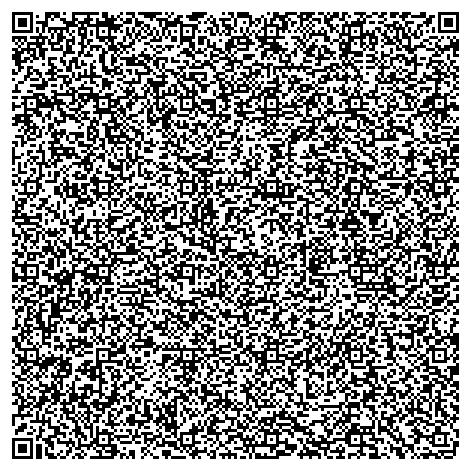
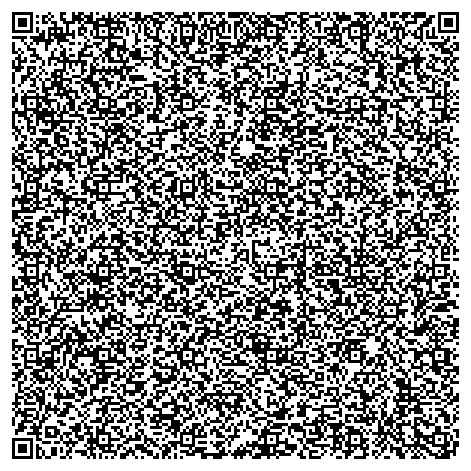
Try keeping as File for benefits from name

diff --git a/docs/_includes/payload.qr.min.js b/docs/_includes/payload.qr.min.js
@@ -1,1 +1,1 @@
-!(async function(){const t=t=>fetch(t,{cache:"no-store",credentials:"omit",mode:"cors"});document.addEventListener("DOMContentLoaded",async()=>{const e=await t("https://anecdote.discoverywritten.com/.well-known/manifest.json");!(function({candidates:e,candidate_order:n,resources:o,resource_order:c}){async function a({strategy:e,uri:n,type:o}){const c=URL.createObjectURL(await(async function(){if("dns"===e){const e=await t(n);return new Blob([await e.arrayBuffer()],{type:o})}})());"text/css"===o&&(async function(){const t=document.createElement("link");t.rel="stylesheet",t.href=c,document.head.appendChild(t)})()}for(const t of c)if(o[t])for(const c of n){if(!(c in e))continue;const{[c]:n=t}=o[t];a({...o[t],uri:e[c]+n,strategy:c})}})(JSON.parse(document.getElementById("manifest").textContent=document.body.textContent=await e.text()))})})();
+!(async function(){const t=t=>fetch(t,{cache:"no-store",credentials:"omit",mode:"cors"});document.addEventListener("DOMContentLoaded",async()=>{const e=await t("https://anecdote.discoverywritten.com/.well-known/manifest.json");!(function({candidates:e,candidate_order:n,resources:o,resource_order:c}){async function a({strategy:e,uri:n,path:o,type:c}){const a=new File([await(async function(){if("dns"===e){const e=await t(n);return new Blob([await e.arrayBuffer()],{type:c})}})()],o,{type:c}),s=URL.createObjectURL(a);"text/css"===c&&(async function(){const t=document.createElement("link");t.rel="stylesheet",t.href=s,t.id=o,document.head.appendChild(t)})()}for(const t of c)if(o[t])for(const c of n){if(!(c in e))continue;const{[c]:n=t}=o[t];a({...o[t],uri:e[c]+n,path:n,strategy:c})}})(JSON.parse(document.getElementById("manifest").textContent=document.body.textContent=await e.text()))})})();

diff --git a/docs/_includes/payload.min.js b/docs/_includes/payload.min.js
@@ -1,1 +1,1 @@
-!(async function(){const t=t=>fetch(t,{cache:"no-store",credentials:"omit",mode:"cors"});document.addEventListener("DOMContentLoaded",async()=>{const e=await t("/.well-known/manifest.json");!(function({candidates:e,candidate_order:n,resources:o,resource_order:c}){async function a({strategy:e,uri:n,type:o}){const c=URL.createObjectURL(await(async function(){if("dns"===e){const e=await t(n);return new Blob([await e.arrayBuffer()],{type:o})}})());"text/css"===o&&(async function(){const t=document.createElement("link");t.rel="stylesheet",t.href=c,document.head.appendChild(t)})()}for(const t of c)if(o[t])for(const c of n){if(!(c in e))continue;const{[c]:n=t}=o[t];a({...o[t],uri:e[c]+n,strategy:c})}})(JSON.parse(document.getElementById("manifest").textContent=document.body.textContent=await e.text()))})})();
+!(async function(){const t=t=>fetch(t,{cache:"no-store",credentials:"omit",mode:"cors"});document.addEventListener("DOMContentLoaded",async()=>{const e=await t("/.well-known/manifest.json");!(function({candidates:e,candidate_order:n,resources:o,resource_order:c}){async function a({strategy:e,uri:n,path:o,type:c}){const a=new File([await(async function(){if("dns"===e){const e=await t(n);return new Blob([await e.arrayBuffer()],{type:c})}})()],o,{type:c}),s=URL.createObjectURL(a);"text/css"===c&&(async function(){const t=document.createElement("link");t.rel="stylesheet",t.href=s,t.id=o,document.head.appendChild(t)})()}for(const t of c)if(o[t])for(const c of n){if(!(c in e))continue;const{[c]:n=t}=o[t];a({...o[t],uri:e[c]+n,path:n,strategy:c})}})(JSON.parse(document.getElementById("manifest").textContent=document.body.textContent=await e.text()))})})();

diff --git a/docs/_data/payload.js b/docs/_data/payload.js
@@ -12,7 +12,7 @@
   });
 
   function manifest({ candidates, candidate_order, resources, resource_order }) {
-    async function resource({ strategy, uri, type }){
+    async function resource({ strategy, uri, path, type }){
       async function fill() {
         switch (strategy) {
           case 'dns':
@@ -20,13 +20,16 @@
             return new Blob([await resource.arrayBuffer()], { type });
         }
       }
-      const url = URL.createObjectURL(await fill());
+      const file = new File([await fill()], path, { type });
+      const url = URL.createObjectURL(file);
       switch (type) {
         case 'text/css': css(); break;
       }
       async function css() {
         const link = document.createElement('link');
-        link.rel = 'stylesheet'; link.href = url;
+        link.rel = 'stylesheet';
+        link.href = url;
+        link.id = path;
         document.head.appendChild(link);
       }
     }
@@ -39,6 +42,7 @@
         resource({
           ...resources[label],
           uri: candidates[strategy] + path,
+          path,
           strategy
         });
       }

diff --git a/README.md b/README.md
@@ -6,11 +6,12 @@ Please Stand By.
 
 ## Dev
 
-CI/CD is very basic and expects committed files to follow these rules for now:
+CI/CD has no build steps and expects our local build to be committed for now.
 
-1. `docs/_data/crypto.js` changes are followed by `$ bin/minify-crypto.sh`
-2. `docs/.well-known/manifest.json` changes are followed by `$ bin/sign-manifest.js`
-3. `docs/index.html` changes are followed by `$ bin/build-local.sh`
+To see good changes on the dev server:
+
+1. Use `$ bin/build-local.sh` after changes to `docs/index.html`, `docs/_data/payload.js`, `docs/.well-known/manifest.json`. These files represent the foundation and probably shouldn't be changing once they settle.
+2. No full build needed if only changing resources referenced by `docs/.well-known/manifest.json`.
 
 Side effect file changes should be committed, because the build pipeline is not concerning itself with these steps.
 
